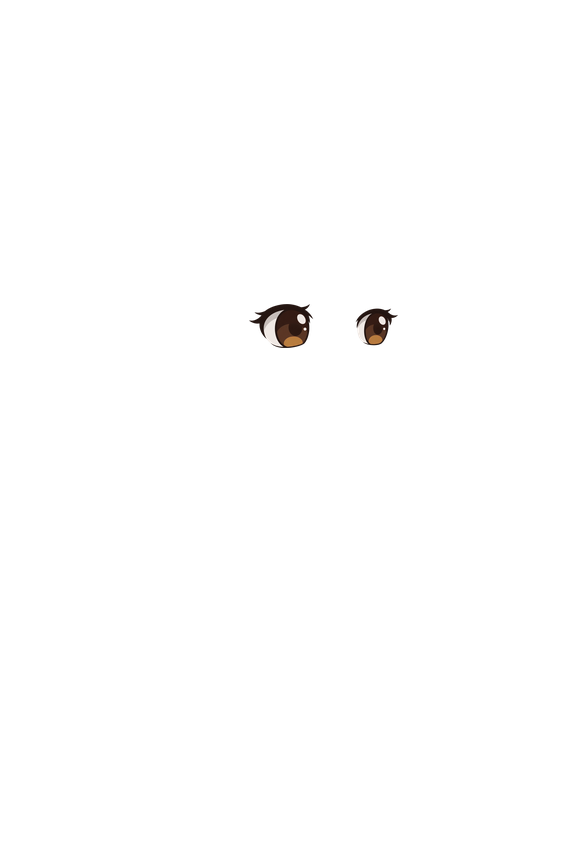
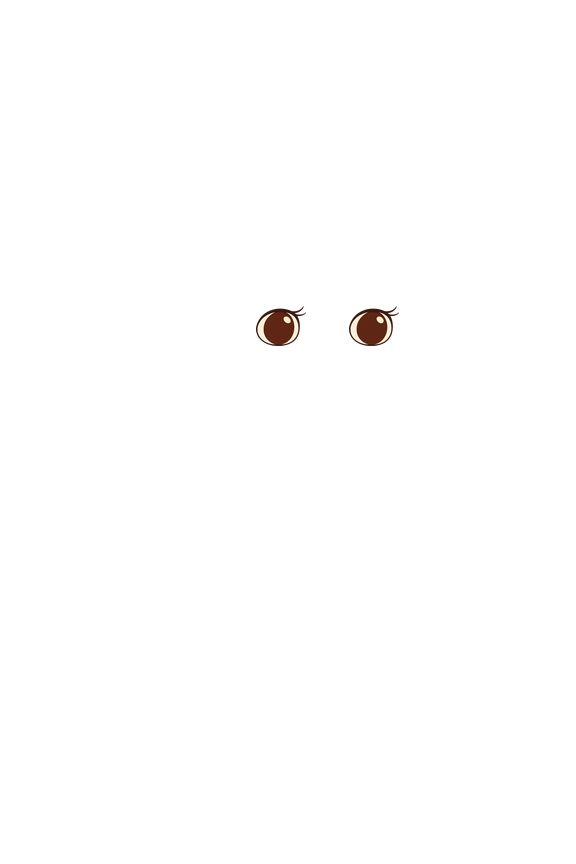
Fix bear girl limb and eye proportions

Changed region(s): [[0.4375, 0.3438, 0.5625, 0.4062], [0.5938, 0.3438, 0.6875, 0.4062]]

diff --git a/src/pack.rs b/src/pack.rs
@@ -394,13 +394,58 @@ fn load_builtin() -> Result<Pack, Fault> {
     for (name, bytes) in BUILTIN_IMAGES {
         images.insert((*name).to_string(), crop(decode(bytes)?)?);
     }
-    assemble(
+    let mut pack = assemble(
         BUILTIN_ID,
         include_str!("../assets/bear-girl/heart"),
         include_str!("../assets/bear-girl/body"),
         include_str!("../assets/bear-girl/anima"),
         images,
-    )
+    )?;
+    add_shared_limb(
+        &mut pack,
+        "hand",
+        "",
+        (40.0, 26.0),
+        include_bytes!("../assets/bear-girl/creature/arm.png"),
+    )?;
+    add_shared_limb(
+        &mut pack,
+        "leg",
+        "",
+        (49.0, 47.0),
+        include_bytes!("../assets/bear-girl/creature/leg.png"),
+    )?;
+    add_shared_limb(
+        &mut pack,
+        "leg",
+        "-sit",
+        (340.0, 610.0),
+        include_bytes!("../assets/bear-girl/creature/leg-sit.png"),
+    )?;
+    Ok(pack)
+}
+
+fn add_shared_limb(
+    pack: &mut Pack,
+    limb: &str,
+    suffix: &str,
+    pivot: (f32, f32),
+    bytes: &[u8],
+) -> Result<(), Fault> {
+    let sprite = crop(decode(bytes)?)?;
+    for side in ["left", "right"] {
+        let name = format!("{side}-{limb}");
+        let bone = &pack.bones[pack.names[&name]];
+        pack.images.insert(
+            format!("{name}{suffix}"),
+            Sprite {
+                x: bone.pivot_x + sprite.x - pivot.0,
+                y: bone.pivot_y + sprite.y - pivot.1,
+                ..sprite.clone()
+            },
+        );
+    }
+    Ok(())
 }
 
 const BUILTIN_IMAGES: &[(&str, &[u8])] = &[
@@ -423,30 +468,6 @@ const BUILTIN_IMAGES: &[(&str, &[u8])] = &[
     (
         "torso",
         include_bytes!("../assets/bear-girl/creature/torso.png"),
-    ),
-    (
-        "left-hand",
-        include_bytes!("../assets/bear-girl/creature/left-hand.png"),
-    ),
-    (
-        "right-hand",
-        include_bytes!("../assets/bear-girl/creature/right-hand.png"),
-    ),
-    (
-        "left-leg",
-        include_bytes!("../assets/bear-girl/creature/left-leg.png"),
-    ),
-    (
-        "right-leg",
-        include_bytes!("../assets/bear-girl/creature/right-leg.png"),
-    ),
-    (
-        "left-leg-sit",
-        include_bytes!("../assets/bear-girl/creature/left-leg-sit.png"),
-    ),
-    (
-        "right-leg-sit",
-        include_bytes!("../assets/bear-girl/creature/right-leg-sit.png"),
     ),
     (
         "it-1",
@@ -1125,6 +1146,21 @@ mod tests {
             if name.ends_with("leg") {
                 assert!(limb.z < torso.z, "{name}");
             }
+        }
+    }
+
+    #[test]
+    fn bear_girl_reuses_the_same_limb_art_on_both_sides() {
+        let pack = Pack::builtin();
+        for (limb, suffix) in [("hand", ""), ("leg", ""), ("leg", "-sit")] {
+            let left_bone = &pack.bones[pack.names[&format!("left-{limb}")]];
+            let right_bone = &pack.bones[pack.names[&format!("right-{limb}")]];
+            let left = pack.sprite(&format!("left-{limb}{suffix}")).unwrap();
+            let right = pack.sprite(&format!("right-{limb}{suffix}")).unwrap();
+            assert!(Arc::ptr_eq(&left.image, &right.image));
+            assert_eq!(left.x - left_bone.pivot_x, right.x - right_bone.pivot_x);
+            assert_eq!(left.y - left_bone.pivot_y, right.y - right_bone.pivot_y);
+            assert_eq!(left_bone.y, right_bone.y);
         }
     }
 }
